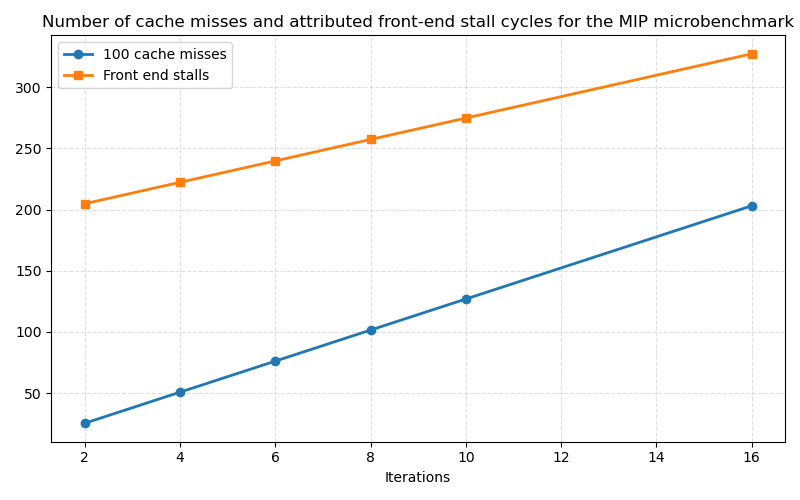
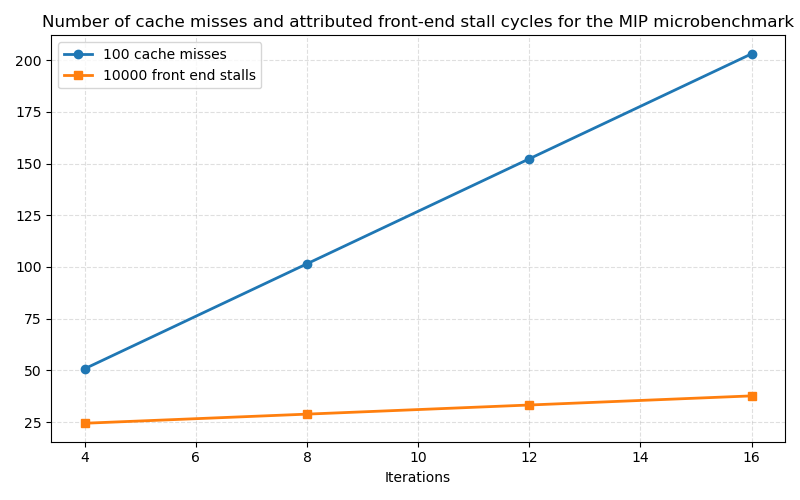
Frontend stall + mispredictions invarianten

diff --git a/verslag/main.tex b/verslag/main.tex
@@ -431,7 +431,7 @@ Voor de uitvoering van het programma geldt de volgende invariant:
 $N_s$ stelt het aantal statische instructies in het programma voor, $N_d$ het totaal aantal dynamisch uitgevoerde \textit{µop's}, beide verkregen uit de \textit{Sniper}-output. $\text{PICS}_{b,i}$ stelt de basiscomponent van de $i$-de statische instructie voor zoals gedefinieerd in (\ref{eq:pics_base}).
 
 Dit is zo omdat elke \textit{µop} steeds gedispatcht  wordt, en dus altijd een deel van de cyclus toegeschreven krijgt aan de \textit{base}-component. Wegens constructie, zoals uitgelegd in (\ref{eq:pics_base}), bedraagt dit precies \(1/\textit{dispatchwidth}\).
-\subsection{Frontend stalls}
+\subsection{Frontend stalls en Drained}
 Het aantal cycli dat toegeschreven wordt aan de component \textit{frontend stall} is bijna uitsluitend afkomstig van \textit{I-cache misses}. Om deze component te verifiëren wordt er gekeken naar een \textit{microbenchmark} met veel \textit{I-cache misses}, waarbij het aantal herhalingen van de lus wordt opgeschaald.
 Een \textit{microbenchmark} is een klein programma dat één specifieke bottleneck van de \textit{OoO-pipeline} uitbuit.
 Het verwachte resultaat is dat het aantal cycli toegeschreven aan \textit{frontend stall} evenredig meeschaalt.
@@ -461,17 +461,23 @@ De gebruikte benchmark bestaat uit een lange reeks bewerkingen op een variabele 
 \vspace{-1em}
 \noindent\small\textit{C-code van de MIP benchmark}
 
-Het analyseren van de benchmark voor verschillende aantal iteraties resulteert in Figuur~\ref{fig:MIP}. Het is duidelijk dat het verwachte gedrag wordt bevestigd.
+Het analyseren van de benchmark voor verschillende aantal iteraties resulteert in Figuur~\ref{fig:MIP}. Het is duidelijk dat het verwachte gedrag at dispatch wordt bevestigd.
 \begin{figure}[H]
 \centering
 \makebox[\textwidth][c]{\includegraphics[width=0.8\textwidth]{mip_iter_scaling.png}}
 \caption{MIP voor verschillend aantal iteraties}
 \label{fig:MIP}
 \end{figure}
+
+At commit is het schaalgedrag niet zichtbaar. De \textit{frontend stalls} die at dispatch zichtbaar en schalen met het aantal \textit{I-cache misses} worden gemaskeerd at commit.
+Dit maakt het verifiëren van de \textit{drained} component lastig. Er kan uiteindelijk geconcludeerd worden dat als de som van het totaal aantal geattribueerde cycli klopt en de drie andere componenten zijn correct, de \textit{drained} component ook correct zal zijn.
+Het correct zijn van de 3 andere componenten wordt in wat volgt aangetoond.
+
+
 \subsection{Mispredictions}
 Het aantal cycli dat toegeschreven wordt aan de component \textit{misprediction} is afkomstig van foute voorspellingen. Om deze component te verifiëren wordt er gekeken naar een benchmark met veel \textit{branch mispredictions}, waarbij het aantal iteraties opnieuw wordt opgeschaald. Het verwachte resultaat is dat het aantal cycli toegeschreven aan \textit{branch misprediction} evenredig meeschaalt.
 
-De gebruikte benchmarks bestaat uit een lus met een willekeurige sprongconditie. waardoor er dus veel foute voorspellingen zullen zijn.
+De gebruikte benchmarks bestaat uit een lus met een willekeurige sprongconditie, waardoor er dus veel foute voorspellingen zullen zijn.
 \begin{lstlisting}[language=C]
     ...
     for(i=0; i < STEP + zero; i+=1) {
@@ -485,17 +491,33 @@ De gebruikte benchmarks bestaat uit een lus met een willekeurige sprongconditie.
 \end{lstlisting}
 \vspace{-1em}
 \noindent\small\textit{C-code van de CCh benchmark}
-\todo[inline]{Misschien beter om te doen met PSum aangezien die later ook wordt gebruikt, kan dan hier verwijzen naar deel later waar er dieper ingegaan wordt op de werking van de benchmark.}
-Het analyseren van de benchmark voor verschillende aantal iteraties resulteert in Figuur~\ref{fig:CCh}. Het is duidelijk dat het verwachte gedrag wordt bevestigd.
+
 \begin{figure}[H]
-\centering
-\makebox[\textwidth][c]{\includegraphics[width=0.8\textwidth]{cch_iter_scaling.png}}
-\caption{CCh voor verschillend aantal iteraties}
-\label{fig:CCh}
+    \centering
+    \begin{minipage}{0.48\textwidth}
+        \centering
+        \includegraphics[width=\linewidth]{cch_iter_scaling_dispatch.png}
+        \caption{CCh dispatch voor verschillend aantal iteraties}
+        \label{fig:CCh_dispatch}
+    \end{minipage}
+    \hfill
+    \begin{minipage}{0.48\textwidth}
+        \centering
+        \includegraphics[width=\linewidth]{cch_iter_scaling_commit.png}
+        \caption{CCh commit voor verschillend aantal iteraties}
+        \label{fig:CCh_commit}
+    \end{minipage}
 \end{figure}
 
+Figuur \ref{fig:CCh_dispatch} toont het schaalgedrag van de microbenchmark bij dispatch. Het verwachte gedrag wordt hier duidelijk zichtbaar. Figuur \ref{fig:CCh_commit} toont het schaalgedrag van de microbenchmark at commit. Wat opvalt is dat het aantal flushed cycli bij commit minder is dan bij dispatch. Dit is te wijten aan het feit dat de
+gevolgen van de mispredictions gemaskeerd worden onder \textit{backend stalls} bij commit (zie \ref{dispatch}).
+In het algemeen zijn er 2 mogelijkheden hoe de gevolgen van mispredictions zichtbaar worden bij commit: ze worden niet of weinig gemaskeerd, waarvoor hier aangetoond werd dat het gedrag correct is.
+Of ze worden (bijna) volledig gemaskeerd waardoor het correcte gedrag van \textit{backend stalls} ervoor zorgt dat ook dit gedrag correct is.
+
 \subsection{Backend stall}
-Het verifiëren van de \textit{backend stall} component is een stuk ingewikkelder, aangezien \textit{backend stalls} vele verschillende oorzaken kunnen hebben. Er kan echter geconcludeerd worden dat, als de som van alle geattribueerde cycli overeenkomt met het totale aantal verlopen cycli én de drie andere componenten correct zijn, ook de \textit{backend stall} component correct moet zijn.
+Het verifiëren van de \textit{backend stall} component is een stuk ingewikkelder, aangezien \textit{backend stalls} vele verschillende oorzaken kunnen hebben. Wederom kan er echter geconcludeerd worden dat, als de som van alle geattribueerde cycli overeenkomt met het totale aantal verlopen cycli én de drie andere componenten correct zijn, ook de \textit{backend stall} component correct moet zijn.
+
+
 \newpage
 \section{Resultaten}
 Na het verifiëren van de \textit{PICS} kunnen enkele codefragmenten geanalyseerd en eventueel geoptimaliseerd worden. In wat volgt worden twee zulke \textit{benchmarks} besproken, die tevens aantonen dat \textit{PICS} bij \textit{dispatch} en \textit{PICS} bij \textit{commit} een complementair beeld geven.

diff --git a/cch_plot.py b/cch_plot.py
@@ -1,0 +1,22 @@
+import numpy as np
+import matplotlib.pyplot as plt
+
+
+iter = np.array([4, 6, 8, 12, 16])
+incorrect = np.array([13571, 21165, 28219, 42326, 56434])
+mispred = np.array([43699.49, 70825.49, 94534.73, 141949.48, 189367.96])
+
+
+# Scale cache misses for easier comparison on a single y-axis.
+mispred_scaled = mispred / 10.0
+
+plt.figure(figsize=(8, 5))
+plt.plot(iter, mispred_scaled, marker='o', linestyle='-', linewidth=2, color='red', label='10 flushed cycles')
+plt.plot(iter, incorrect, marker='s', linestyle='-', linewidth=2, color='cyan', label='Number of incorrect predictions')
+
+plt.xlabel('Iterations')
+plt.title('Number of incorrect predictions and attributed flushed cycles for CCh bench')
+plt.grid(True, linestyle='--', alpha=0.4)
+plt.legend()
+plt.tight_layout()
+plt.savefig('cch_iter_scaling')

diff --git a/mip_plot.py b/mip_plot.py
@@ -1,0 +1,24 @@
+import numpy as np
+import matplotlib.pyplot as plt
+
+
+iter = np.array([4, 8, 12, 16])
+cmiss = np.array([5077, 10153, 15229,  20305])
+fe_stall = np.array([244132, 288244, 332357, 376470])
+
+
+# Scale cache misses for easier comparison on a single y-axis.
+cmiss_scaled = cmiss / 100.0
+fe_stall_scaled = fe_stall / 10000
+
+plt.figure(figsize=(8, 5))
+plt.plot(iter, cmiss_scaled, marker='o', linestyle='-', linewidth=2, label='100 cache misses')
+plt.plot(iter, fe_stall_scaled, marker='s', linestyle='-', linewidth=2, label='10000 front end stalls')
+
+plt.xlabel('Iterations')
+plt.title('Number of cache misses and attributed front-end stall cycles for the MIP microbenchmark')
+plt.grid(True, linestyle='--', alpha=0.4)
+plt.legend()
+plt.tight_layout()
+plt.savefig('mip_iter_scaling')
+
